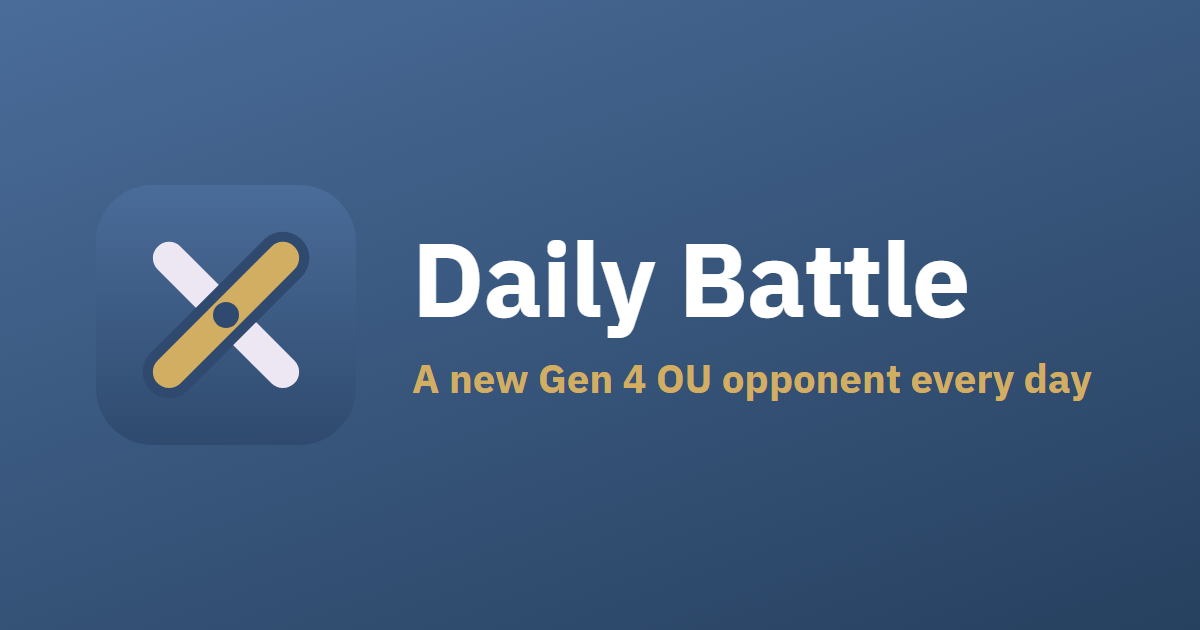
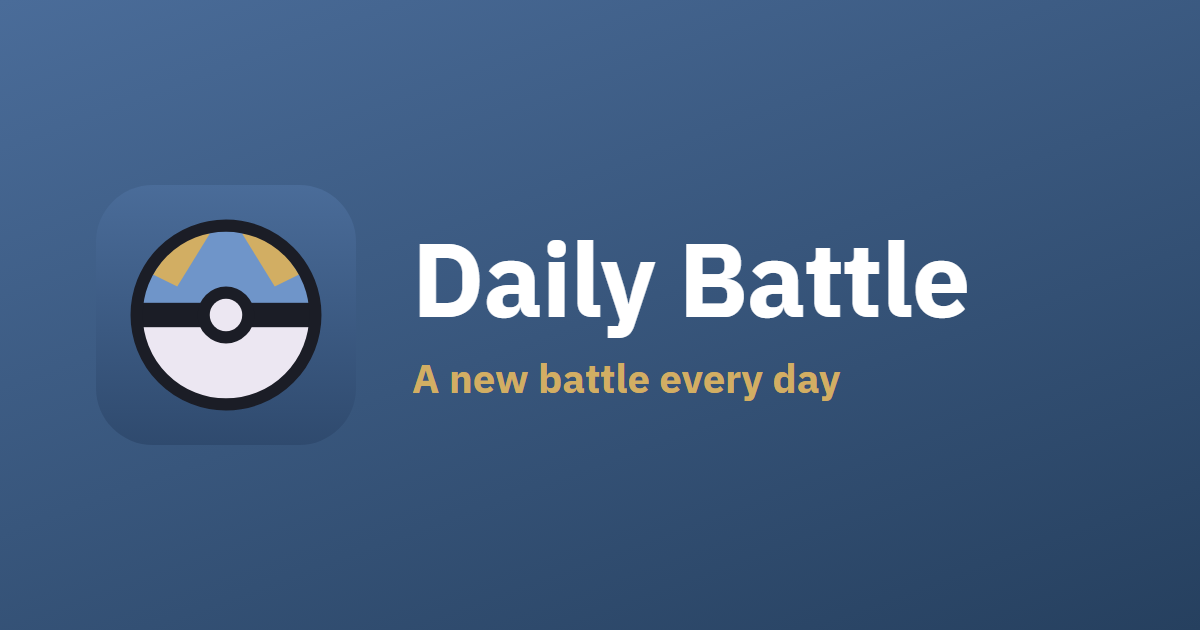
Brand: a Great Ball in the app's colors
The icon is now a stylized Great Ball on the steel-blue tile: a blue cap
with gold stripes (the streak color), a pearl base, and a dark band. The
link preview says "A new battle every day". Icons and og.png regenerated.

Claude-Session: https://claude.ai/code/session_015wUBvq7R2fq57AVmrcLECi

Changed region(s): [[0.0925, 0.3317, 0.2775, 0.6635], [0.4317, 0.573, 0.925, 0.6333]]

diff --git a/apps/web/scripts/icons.ts b/apps/web/scripts/icons.ts
@@ -50,7 +50,7 @@ await page.setContent(`
     p { font-size: 40px; margin: 22px 0 0; color: #d2ae63; font-weight: 700; }
   </style>
   <img src="${svgUri}" width="260" height="260">
-  <div><h1>Daily Battle</h1><p>A new Gen 4 or Gen 5 OU opponent every day</p></div>
+  <div><h1>Daily Battle</h1><p>A new battle every day</p></div>
 `);
 await page.screenshot({ path: pub('og.png') });
 console.log('og.png');
